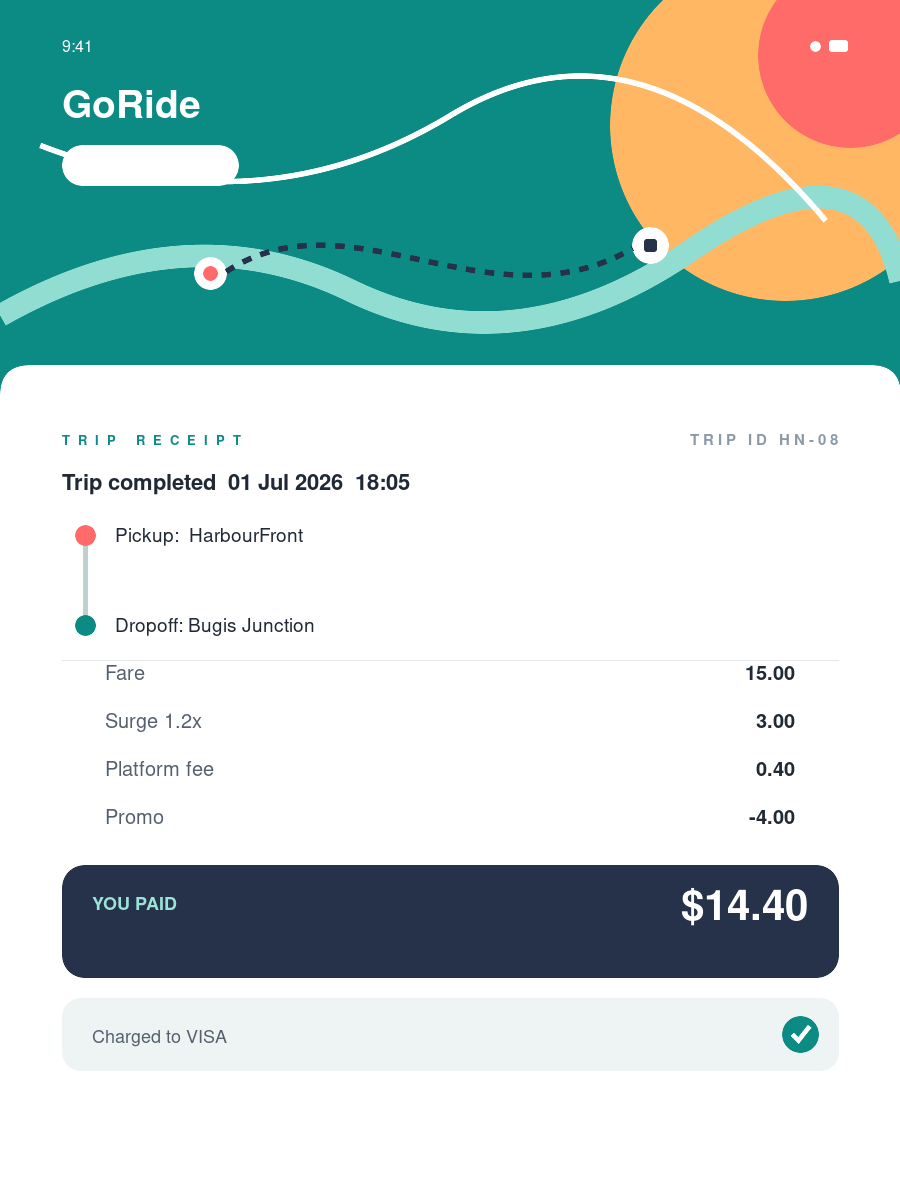
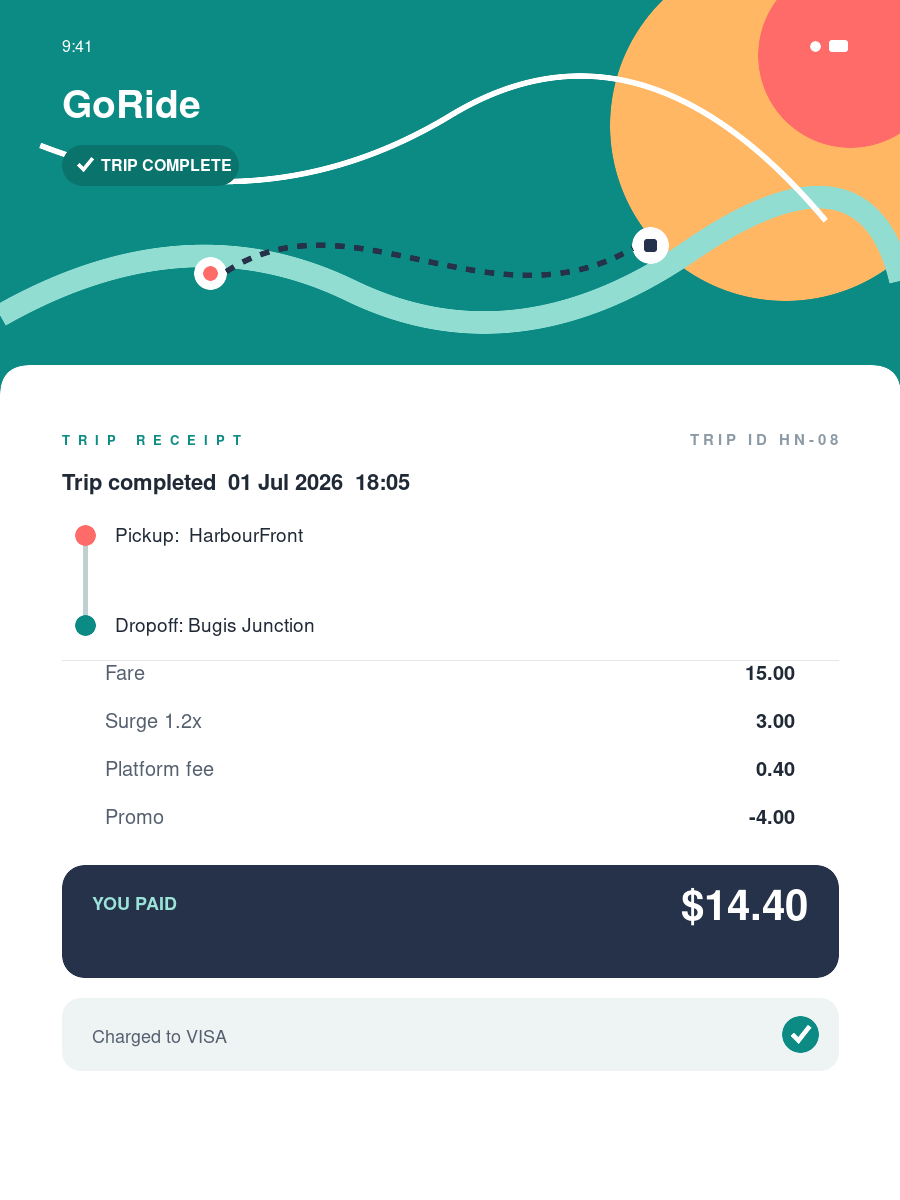
Make the TRIP COMPLETE badge legible
The pill relied on opacity, which the rasteriser drops, leaving white
text on white. A solid darker teal does not depend on the renderer.

Claude-Session: https://claude.ai/code/session_01NWCZbiUNeGnnPsG38BW2Eq

Changed region(s): [[0.0622, 0.1233, 0.28, 0.1542]]

diff --git a/dataset/display/.render/source_03.py b/dataset/display/.render/source_03.py
@@ -28,7 +28,7 @@ def render(text: str, _seed: str) -> str:
 <circle cx="785" cy="125" r="175" fill="#ffb764" opacity=".95"/><circle cx="850" cy="55" r="92" fill="#ff6b68" opacity=".9"/>
 <path d="M0 315 Q185 210 350 290 T690 250 T900 280" fill="none" stroke="#91ddd2" stroke-width="22" opacity=".45"/><path d="M40 145 Q260 230 450 115 T825 220" fill="none" stroke="#fff" stroke-width="5" opacity=".28"/>
 <text x="62" y="52" class="sans" font-size="16" fill="#fff">9:41</text><circle cx="815" cy="46" r="5" fill="#fff"/><rect x="829" y="40" width="18" height="11" rx="2" fill="#fff"/>
-<text x="62" y="118" class="sans" font-size="39" font-weight="800" fill="#fff">GoRide</text><rect x="62" y="145" width="176" height="40" rx="20" fill="#fff" opacity=".18"/><path d="M78 164l5 5 9-11" fill="none" stroke="#fff" stroke-width="3"/><text x="101" y="171" class="sans" font-size="16" font-weight="700" fill="#fff">TRIP COMPLETE</text>
+<text x="62" y="118" class="sans" font-size="39" font-weight="800" fill="#fff">GoRide</text><rect x="62" y="145" width="176" height="40" rx="20" fill="#0a736c"/><path d="M78 164l5 5 9-11" fill="none" stroke="#fff" stroke-width="3"/><text x="101" y="171" class="sans" font-size="16" font-weight="700" fill="#fff">TRIP COMPLETE</text>
 <circle cx="210" cy="273" r="16" fill="#fff"/><circle cx="210" cy="273" r="7" fill="#ff6b68"/><circle cx="650" cy="245" r="18" fill="#fff"/><rect x="644" y="239" width="12" height="12" rx="2" fill="#25324a"/><path d="M226 271 C350 190 490 330 632 248" fill="none" stroke="#25324a" stroke-width="5" stroke-dasharray="9 10"/>
 <path d="M0 395 Q0 365 30 365 H870 Q900 365 900 395 V1200 H0Z" fill="#fff"/>
 <text x="62" y="445" class="sans" font-size="13" font-weight="700" letter-spacing="2" fill="#0b8b83">TRIP RECEIPT</text><text x="838" y="445" text-anchor="end" class="sans" font-size="15" font-weight="700" letter-spacing="1" fill="#8c9aa6">{html.escape(ride_id.upper())}</text><text x="62" y="490" class="sans" font-size="22" font-weight="700" fill="#202936">{html.escape(trip)}</text>
